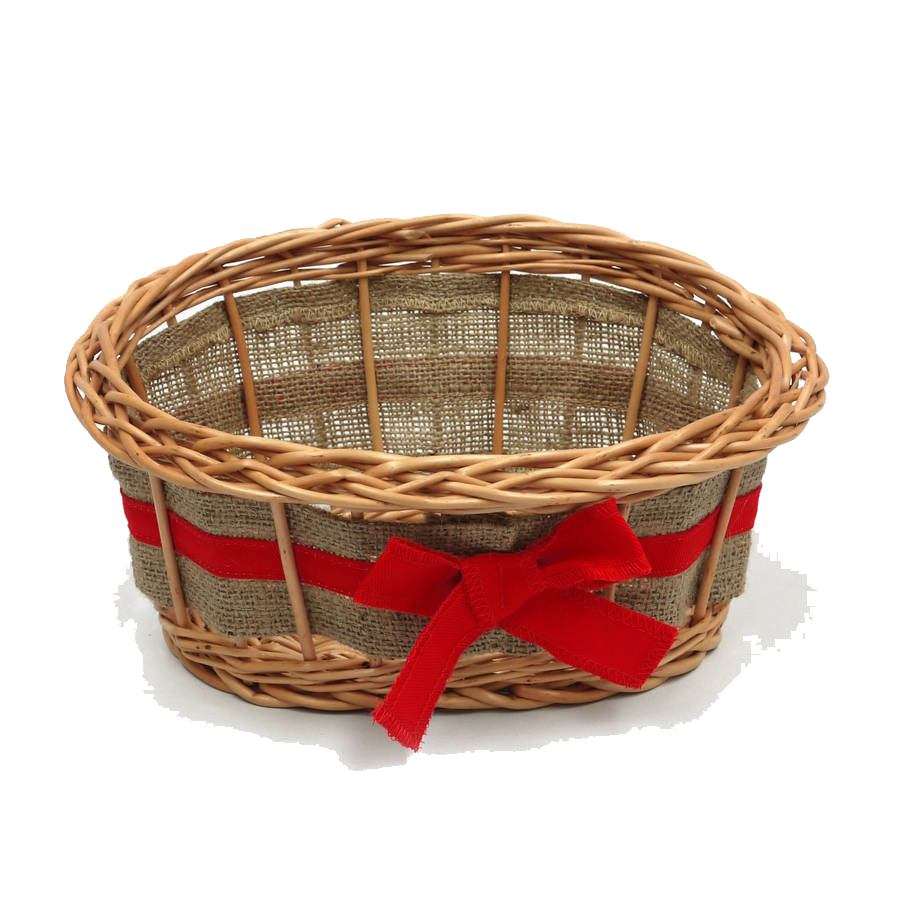
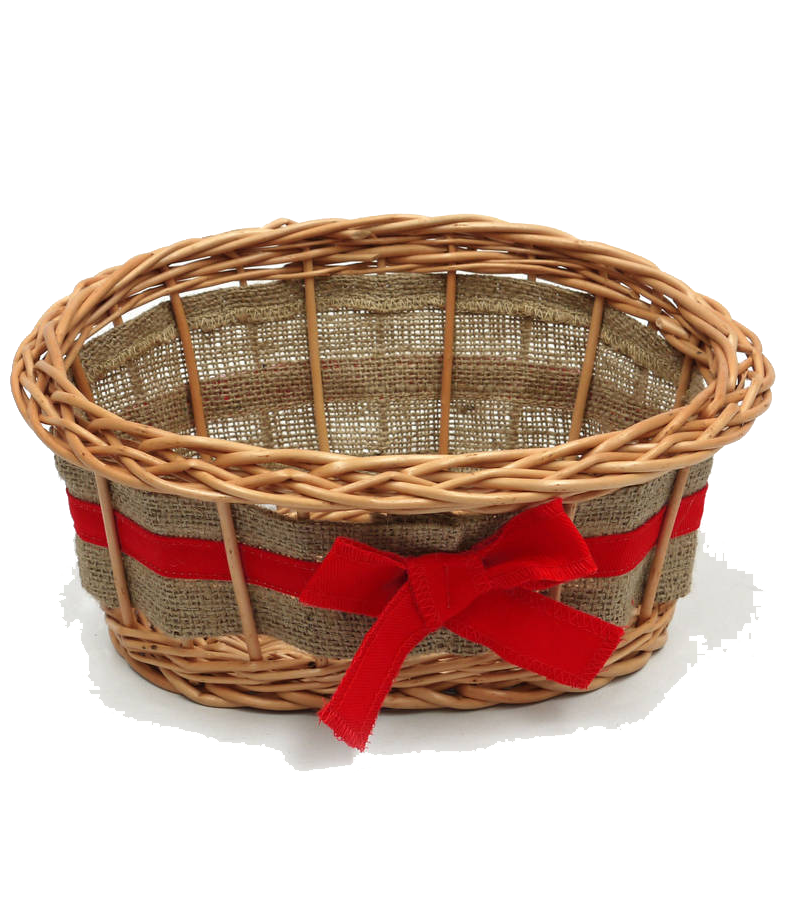
Basket corrected

diff --git a/game/main.css b/game/main.css
@@ -54,7 +54,7 @@ body {
     width: 200px;
     background-image: url("basket.png");
     background-size: cover;
-    max-width: 100%;
+    max-width: 80%;
     bottom: 0;
     left: 50px;
 }
